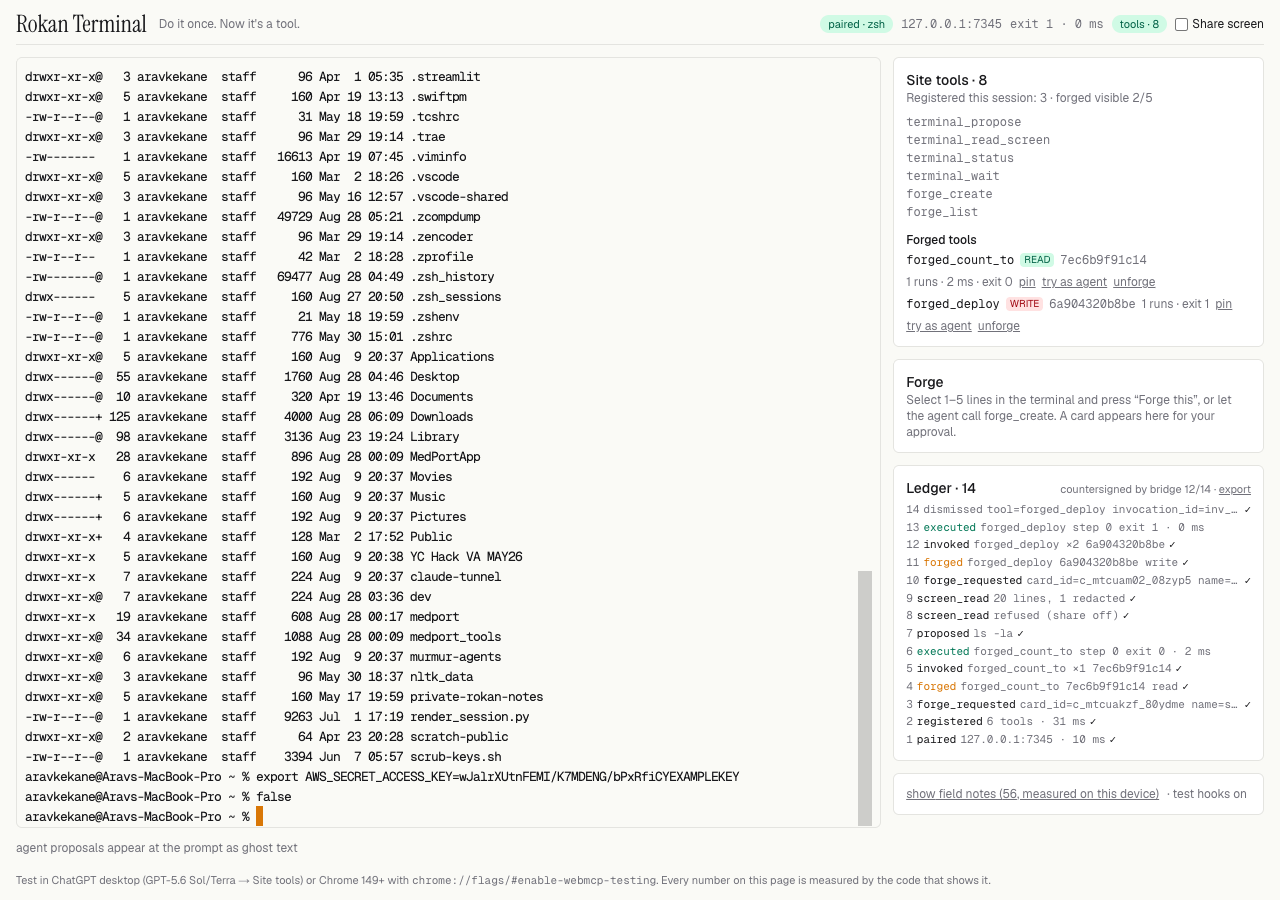
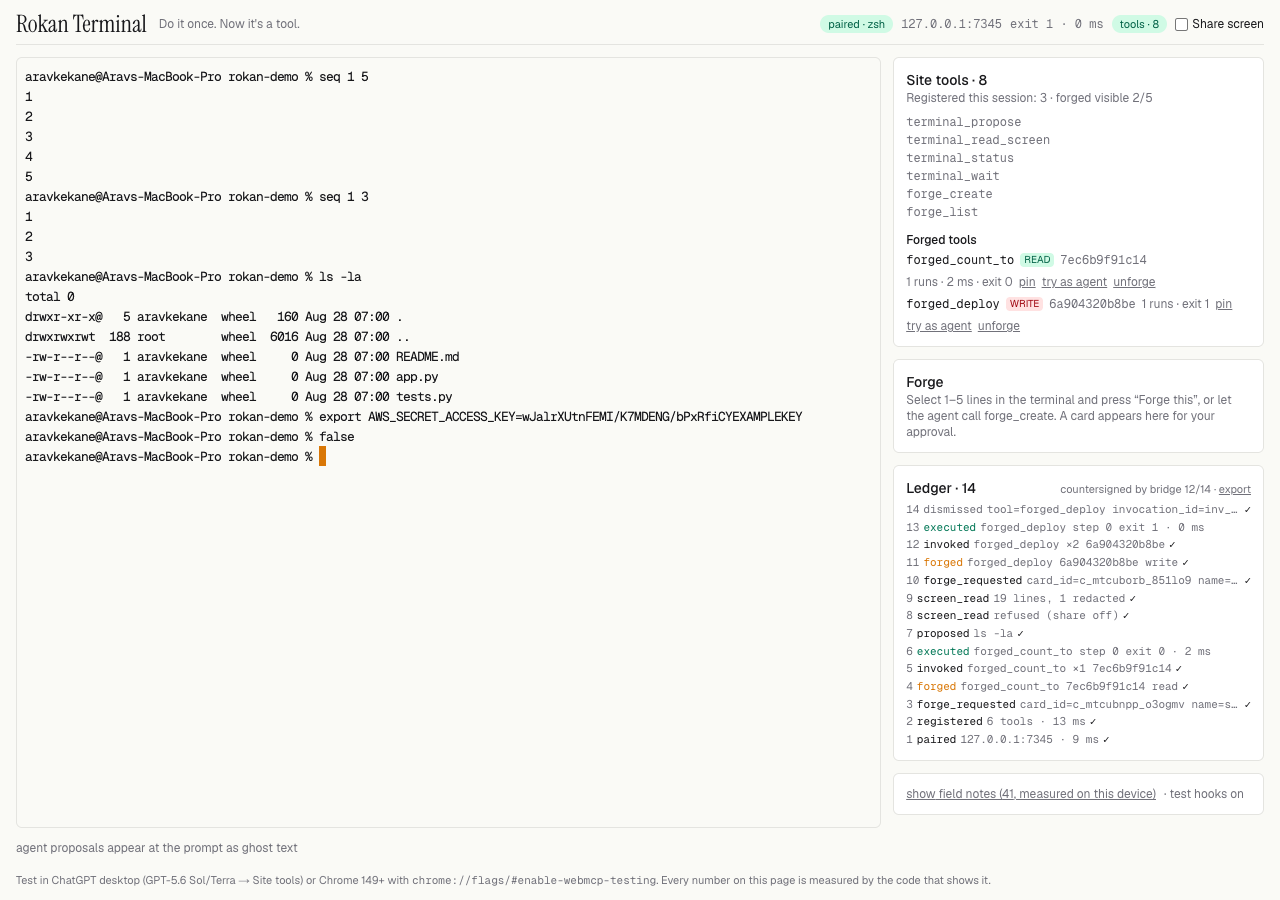
evals: demo dry-run runs in a scratch dir (no home listing in evidence); docs: pre-public checklist

diff --git a/docs/PROGRESS.md b/docs/PROGRESS.md
@@ -96,6 +96,11 @@ Drop `--no-tunnel` to get a `wss://…trycloudflare.com` link (≈ 15–20 s, wa
 - **Sat 20:00** joint E2E from the deployed URL through a real tunnel. **22:00 Gate B.**
 - **Sun:** `infra/sandbox` (Worker + Sandbox SDK + Dockerfile) — judge mode.
 
+## Before the repo goes public (Sep 1) — checklist
+- [ ] Purge `docs/evidence/demo/beat3-share-redacted.png` from history (commit `0bb4cba` captured a listing of Arav's home directory; regenerated in a scratch dir in the next commit). `git filter-repo --path docs/evidence/demo/beat3-share-redacted.png --invert-paths` on a fresh clone, then force-push — Arav's call, coordinate with Aarya.
+- [ ] Grep evidence images/logs for home paths and tokens (`docs/evidence/**`, `FIELD-NOTES.md`): the pairing token appears nowhere; `/Users/aravkekane` appears in status bars — acceptable.
+- [ ] LICENSE in GitHub About; README first line; `vendor/` note honest.
+
 ## Objections
 
 - None from C yet. (D1 above is a recommendation on pitch framing, not an objection to a locked decision.)
